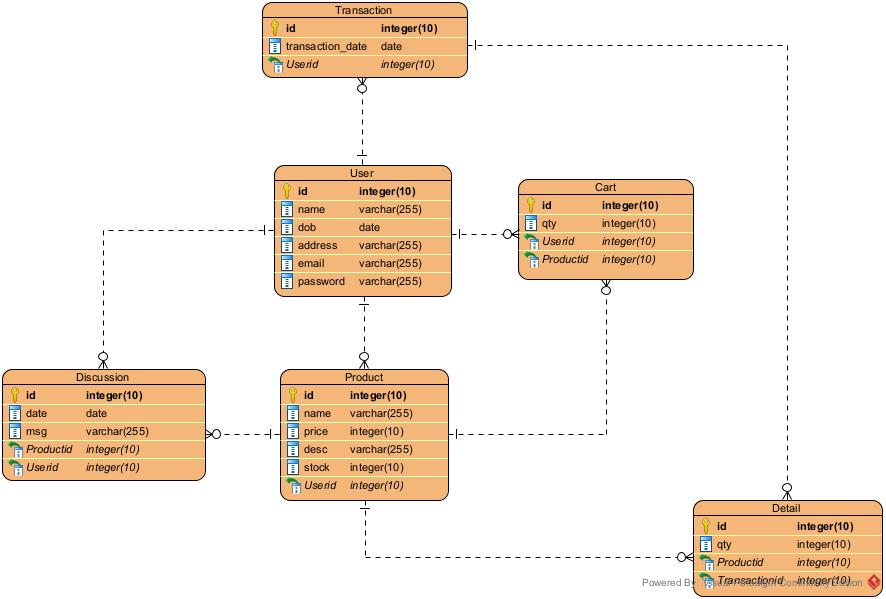
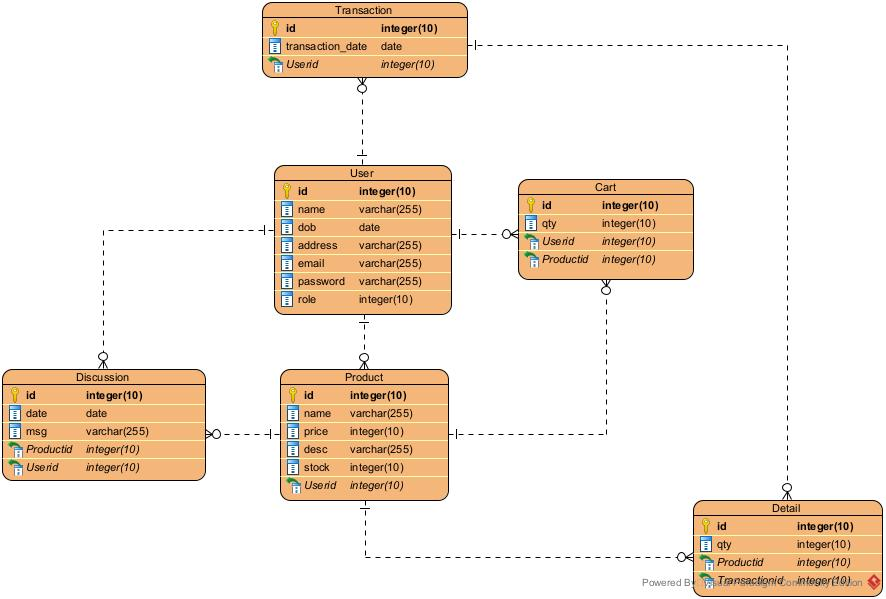
create model and database migration

Changed region(s): [[0.3047, 0.4808, 0.5181, 0.5409], [0.3962, 0.571, 0.4266, 0.601]]

diff --git a/database/migrations/2021_12_16_145057_create_discussions_table.php b/database/migrations/2021_12_16_145057_create_discussions_table.php
@@ -1,0 +1,38 @@
+<?php
+
+use Illuminate\Database\Migrations\Migration;
+use Illuminate\Database\Schema\Blueprint;
+use Illuminate\Support\Facades\Schema;
+
+class CreateDiscussionsTable extends Migration
+{
+    /**
+     * Run the migrations.
+     *
+     * @return void
+     */
+    public function up()
+    {
+        Schema::create('discussions', function (Blueprint $table) {
+            $table->id();
+            $table->date('date');
+            $table->string('msg');
+            $table->unsignedBigInteger('product_id');
+            $table->unsignedBigInteger('user_id');
+
+            $table->foreign('product_id')->references('id')->on('products');
+            $table->foreign('user_id')->references('id')->on('users');
+            $table->timestamps();
+        });
+    }
+
+    /**
+     * Reverse the migrations.
+     *
+     * @return void
+     */
+    public function down()
+    {
+        Schema::dropIfExists('discussions');
+    }
+}

diff --git a/database/migrations/2021_12_16_145141_create_details_table.php b/database/migrations/2021_12_16_145141_create_details_table.php
@@ -1,0 +1,37 @@
+<?php
+
+use Illuminate\Database\Migrations\Migration;
+use Illuminate\Database\Schema\Blueprint;
+use Illuminate\Support\Facades\Schema;
+
+class CreateDetailsTable extends Migration
+{
+    /**
+     * Run the migrations.
+     *
+     * @return void
+     */
+    public function up()
+    {
+        Schema::create('details', function (Blueprint $table) {
+            $table->id();
+            $table->integer('qty');
+            $table->unsignedBigInteger('product_id');
+            $table->unsignedBigInteger('transaction_id');
+
+            $table->foreign('product_id')->references('id')->on('products');
+            $table->foreign('transaction_id')->references('id')->on('transactions');
+            $table->timestamps();
+        });
+    }
+
+    /**
+     * Reverse the migrations.
+     *
+     * @return void
+     */
+    public function down()
+    {
+        Schema::dropIfExists('details');
+    }
+}

diff --git a/database/migrations/2021_12_16_145107_create_carts_table.php b/database/migrations/2021_12_16_145107_create_carts_table.php
@@ -1,0 +1,37 @@
+<?php
+
+use Illuminate\Database\Migrations\Migration;
+use Illuminate\Database\Schema\Blueprint;
+use Illuminate\Support\Facades\Schema;
+
+class CreateCartsTable extends Migration
+{
+    /**
+     * Run the migrations.
+     *
+     * @return void
+     */
+    public function up()
+    {
+        Schema::create('carts', function (Blueprint $table) {
+            $table->id();
+            $table->unsignedBigInteger('user_id');
+            $table->unsignedBigInteger('product_id');
+            $table->integer('qty');
+
+            $table->foreign('user_id')->references('id')->on('users');
+            $table->foreign('product_id')->references('id')->on('products');
+            $table->timestamps();
+        });
+    }
+
+    /**
+     * Reverse the migrations.
+     *
+     * @return void
+     */
+    public function down()
+    {
+        Schema::dropIfExists('carts');
+    }
+}

diff --git a/database/migrations/2021_12_16_145006_create_products_table.php b/database/migrations/2021_12_16_145006_create_products_table.php
@@ -1,0 +1,38 @@
+<?php
+
+use Illuminate\Database\Migrations\Migration;
+use Illuminate\Database\Schema\Blueprint;
+use Illuminate\Support\Facades\Schema;
+
+class CreateProductsTable extends Migration
+{
+    /**
+     * Run the migrations.
+     *
+     * @return void
+     */
+    public function up()
+    {
+        Schema::create('products', function (Blueprint $table) {
+            $table->id();
+            $table->string('name');
+            $table->integer('price');
+            $table->string('desc');
+            $table->integer('stock');
+            $table->unsignedBigInteger('user_id');
+
+            $table->foreign('user_id')->references('id')->on('users');
+            $table->timestamps();
+        });
+    }
+
+    /**
+     * Reverse the migrations.
+     *
+     * @return void
+     */
+    public function down()
+    {
+        Schema::dropIfExists('products');
+    }
+}

diff --git a/database/migrations/2021_12_16_145123_create_transactions_table.php b/database/migrations/2021_12_16_145123_create_transactions_table.php
@@ -1,0 +1,35 @@
+<?php
+
+use Illuminate\Database\Migrations\Migration;
+use Illuminate\Database\Schema\Blueprint;
+use Illuminate\Support\Facades\Schema;
+
+class CreateTransactionsTable extends Migration
+{
+    /**
+     * Run the migrations.
+     *
+     * @return void
+     */
+    public function up()
+    {
+        Schema::create('transactions', function (Blueprint $table) {
+            $table->id();
+            $table->date('transaction_date');
+            $table->unsignedBigInteger('user_id');
+
+            $table->foreign('user_id')->references('id')->on('users');
+            $table->timestamps();
+        });
+    }
+
+    /**
+     * Reverse the migrations.
+     *
+     * @return void
+     */
+    public function down()
+    {
+        Schema::dropIfExists('transactions');
+    }
+}

diff --git a/database/migrations/2014_10_12_000000_create_users_table.php b/database/migrations/2014_10_12_000000_create_users_table.php
@@ -16,6 +16,9 @@ class CreateUsersTable extends Migration
         Schema::create('users', function (Blueprint $table) {
             $table->id();
             $table->string('name');
+            $table->date('dob');
+            $table->string('address');
+            $table->integer('role_number'); // 1 => customer 2=> seller
             $table->string('email')->unique();
             $table->timestamp('email_verified_at')->nullable();
             $table->string('password');

diff --git a/app/Models/Transaction.php b/app/Models/Transaction.php
@@ -1,0 +1,11 @@
+<?php
+
+namespace App\Models;
+
+use Illuminate\Database\Eloquent\Factories\HasFactory;
+use Illuminate\Database\Eloquent\Model;
+
+class Transaction extends Model
+{
+    use HasFactory;
+}

diff --git a/app/Models/Discussion.php b/app/Models/Discussion.php
@@ -1,0 +1,11 @@
+<?php
+
+namespace App\Models;
+
+use Illuminate\Database\Eloquent\Factories\HasFactory;
+use Illuminate\Database\Eloquent\Model;
+
+class Discussion extends Model
+{
+    use HasFactory;
+}

diff --git a/app/Models/Product.php b/app/Models/Product.php
@@ -1,0 +1,11 @@
+<?php
+
+namespace App\Models;
+
+use Illuminate\Database\Eloquent\Factories\HasFactory;
+use Illuminate\Database\Eloquent\Model;
+
+class Product extends Model
+{
+    use HasFactory;
+}

diff --git a/app/Models/Detail.php b/app/Models/Detail.php
@@ -1,0 +1,11 @@
+<?php
+
+namespace App\Models;
+
+use Illuminate\Database\Eloquent\Factories\HasFactory;
+use Illuminate\Database\Eloquent\Model;
+
+class Detail extends Model
+{
+    use HasFactory;
+}

diff --git a/app/Models/Cart.php b/app/Models/Cart.php
@@ -1,0 +1,11 @@
+<?php
+
+namespace App\Models;
+
+use Illuminate\Database\Eloquent\Factories\HasFactory;
+use Illuminate\Database\Eloquent\Model;
+
+class Cart extends Model
+{
+    use HasFactory;
+}
